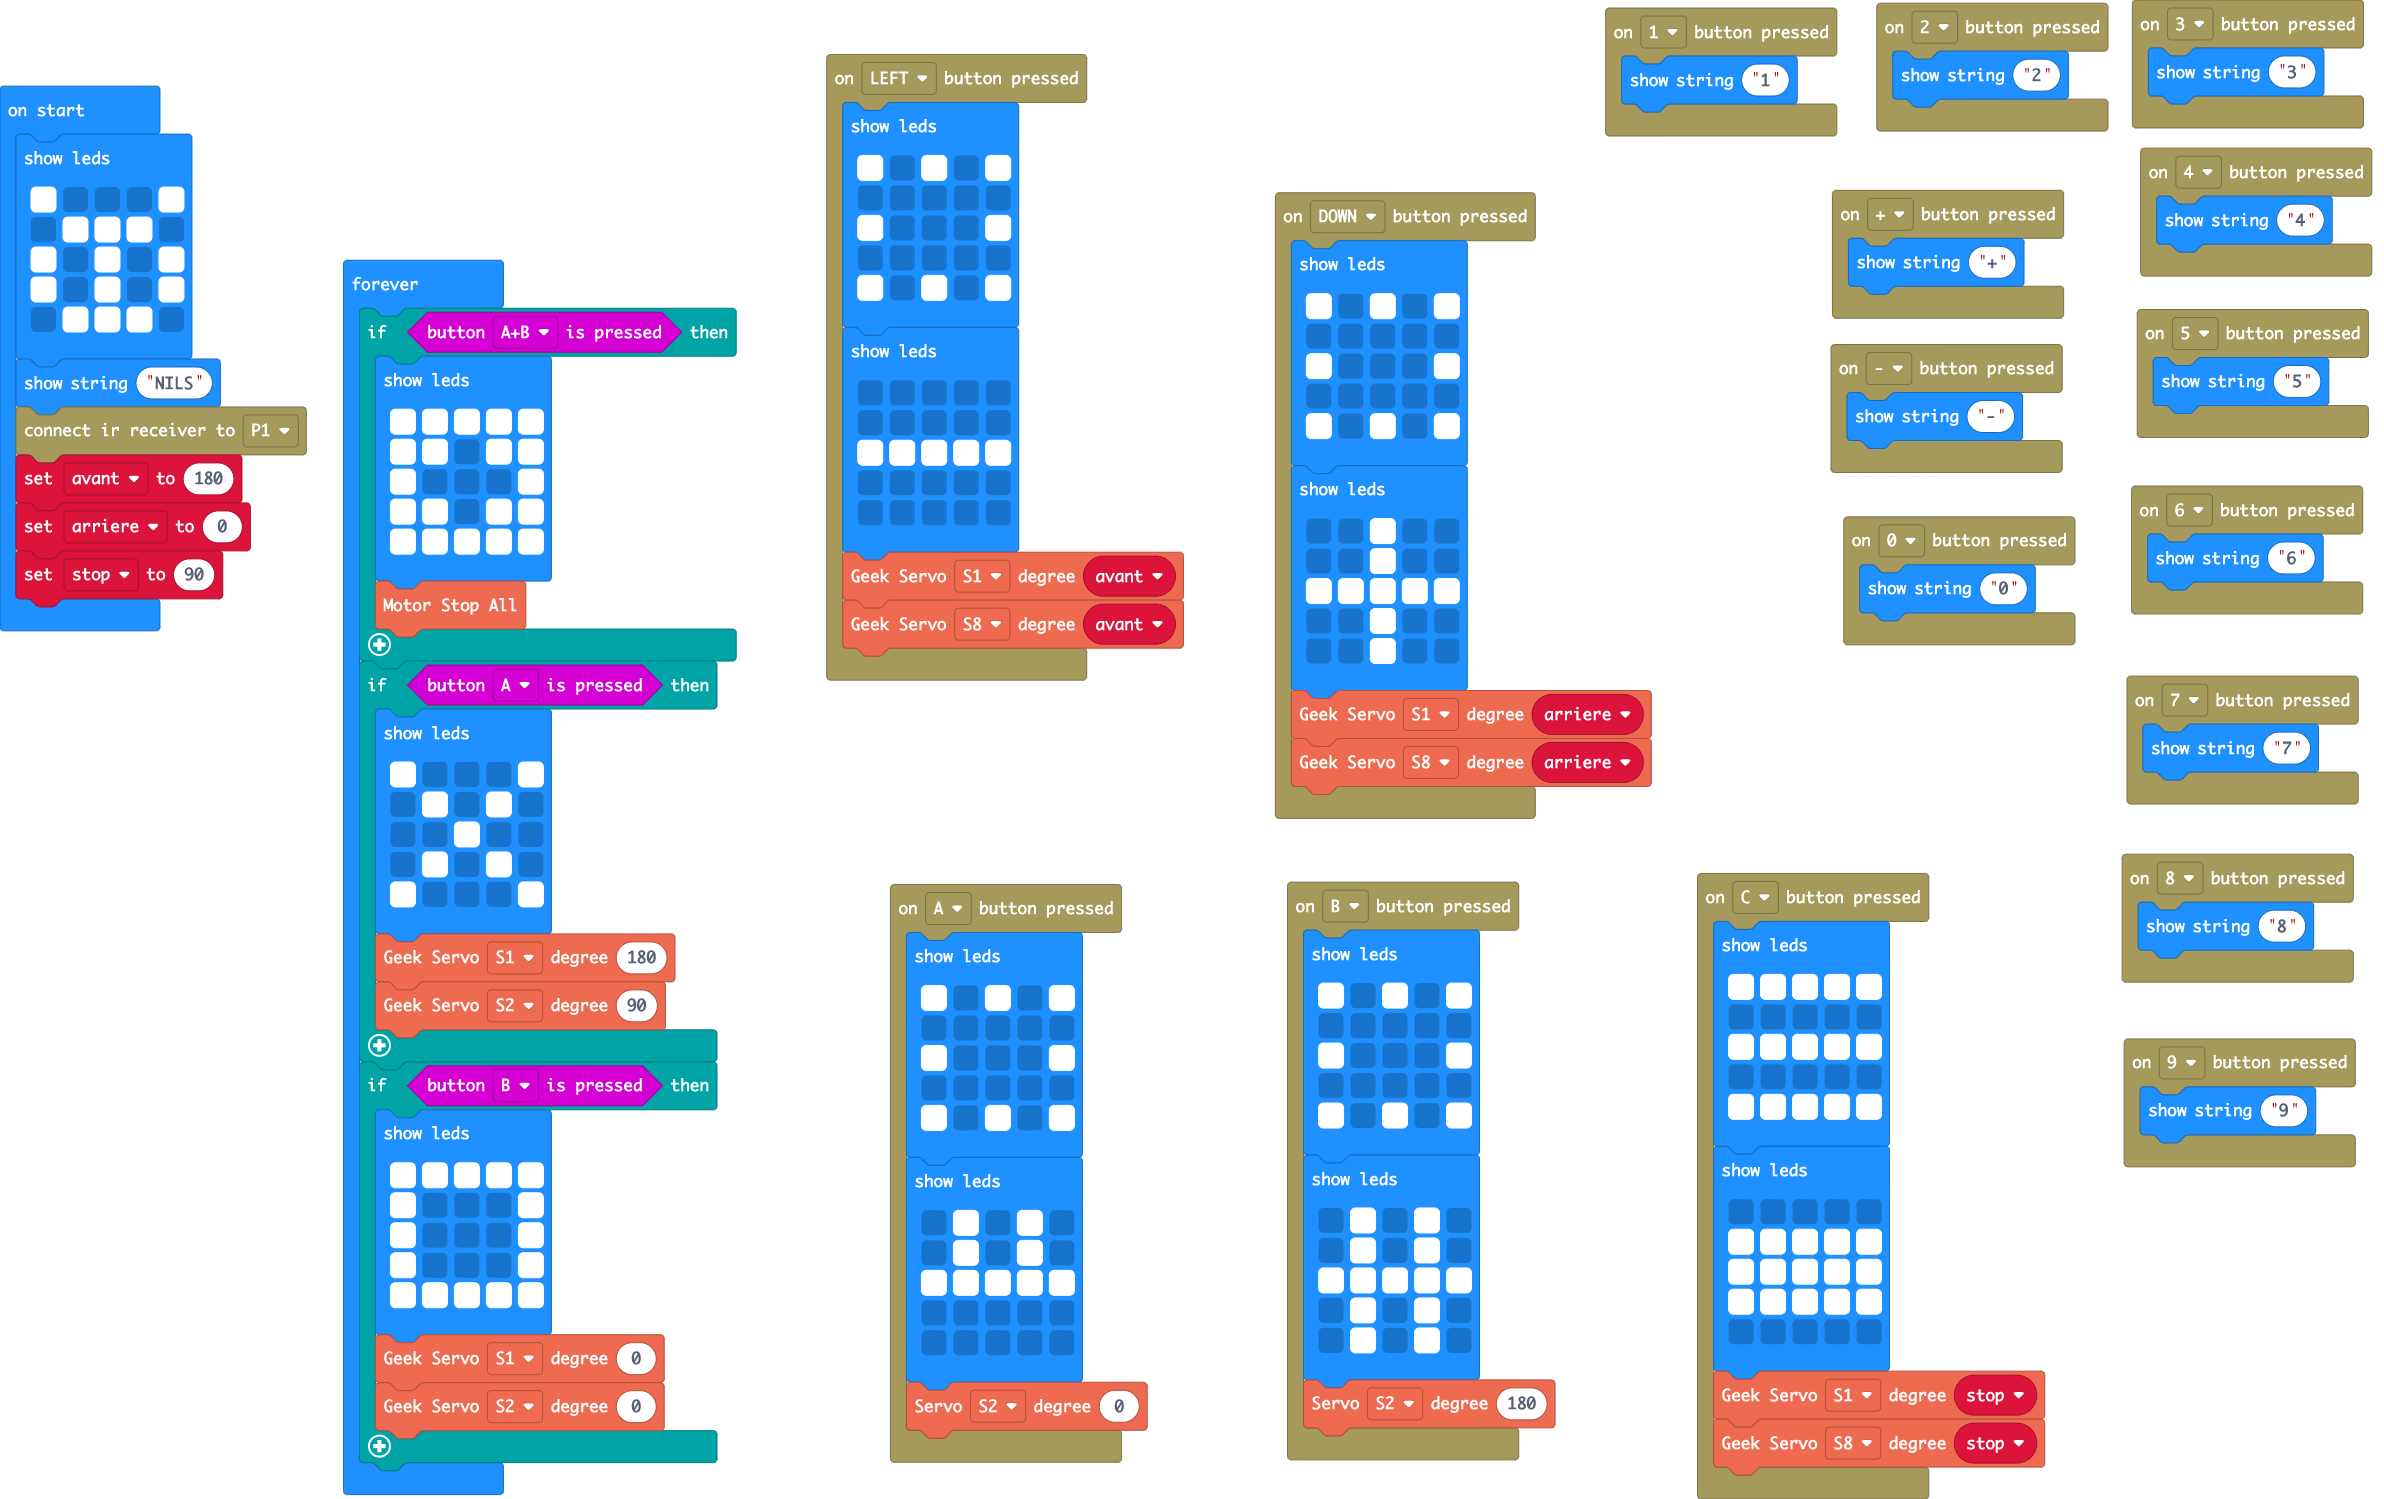
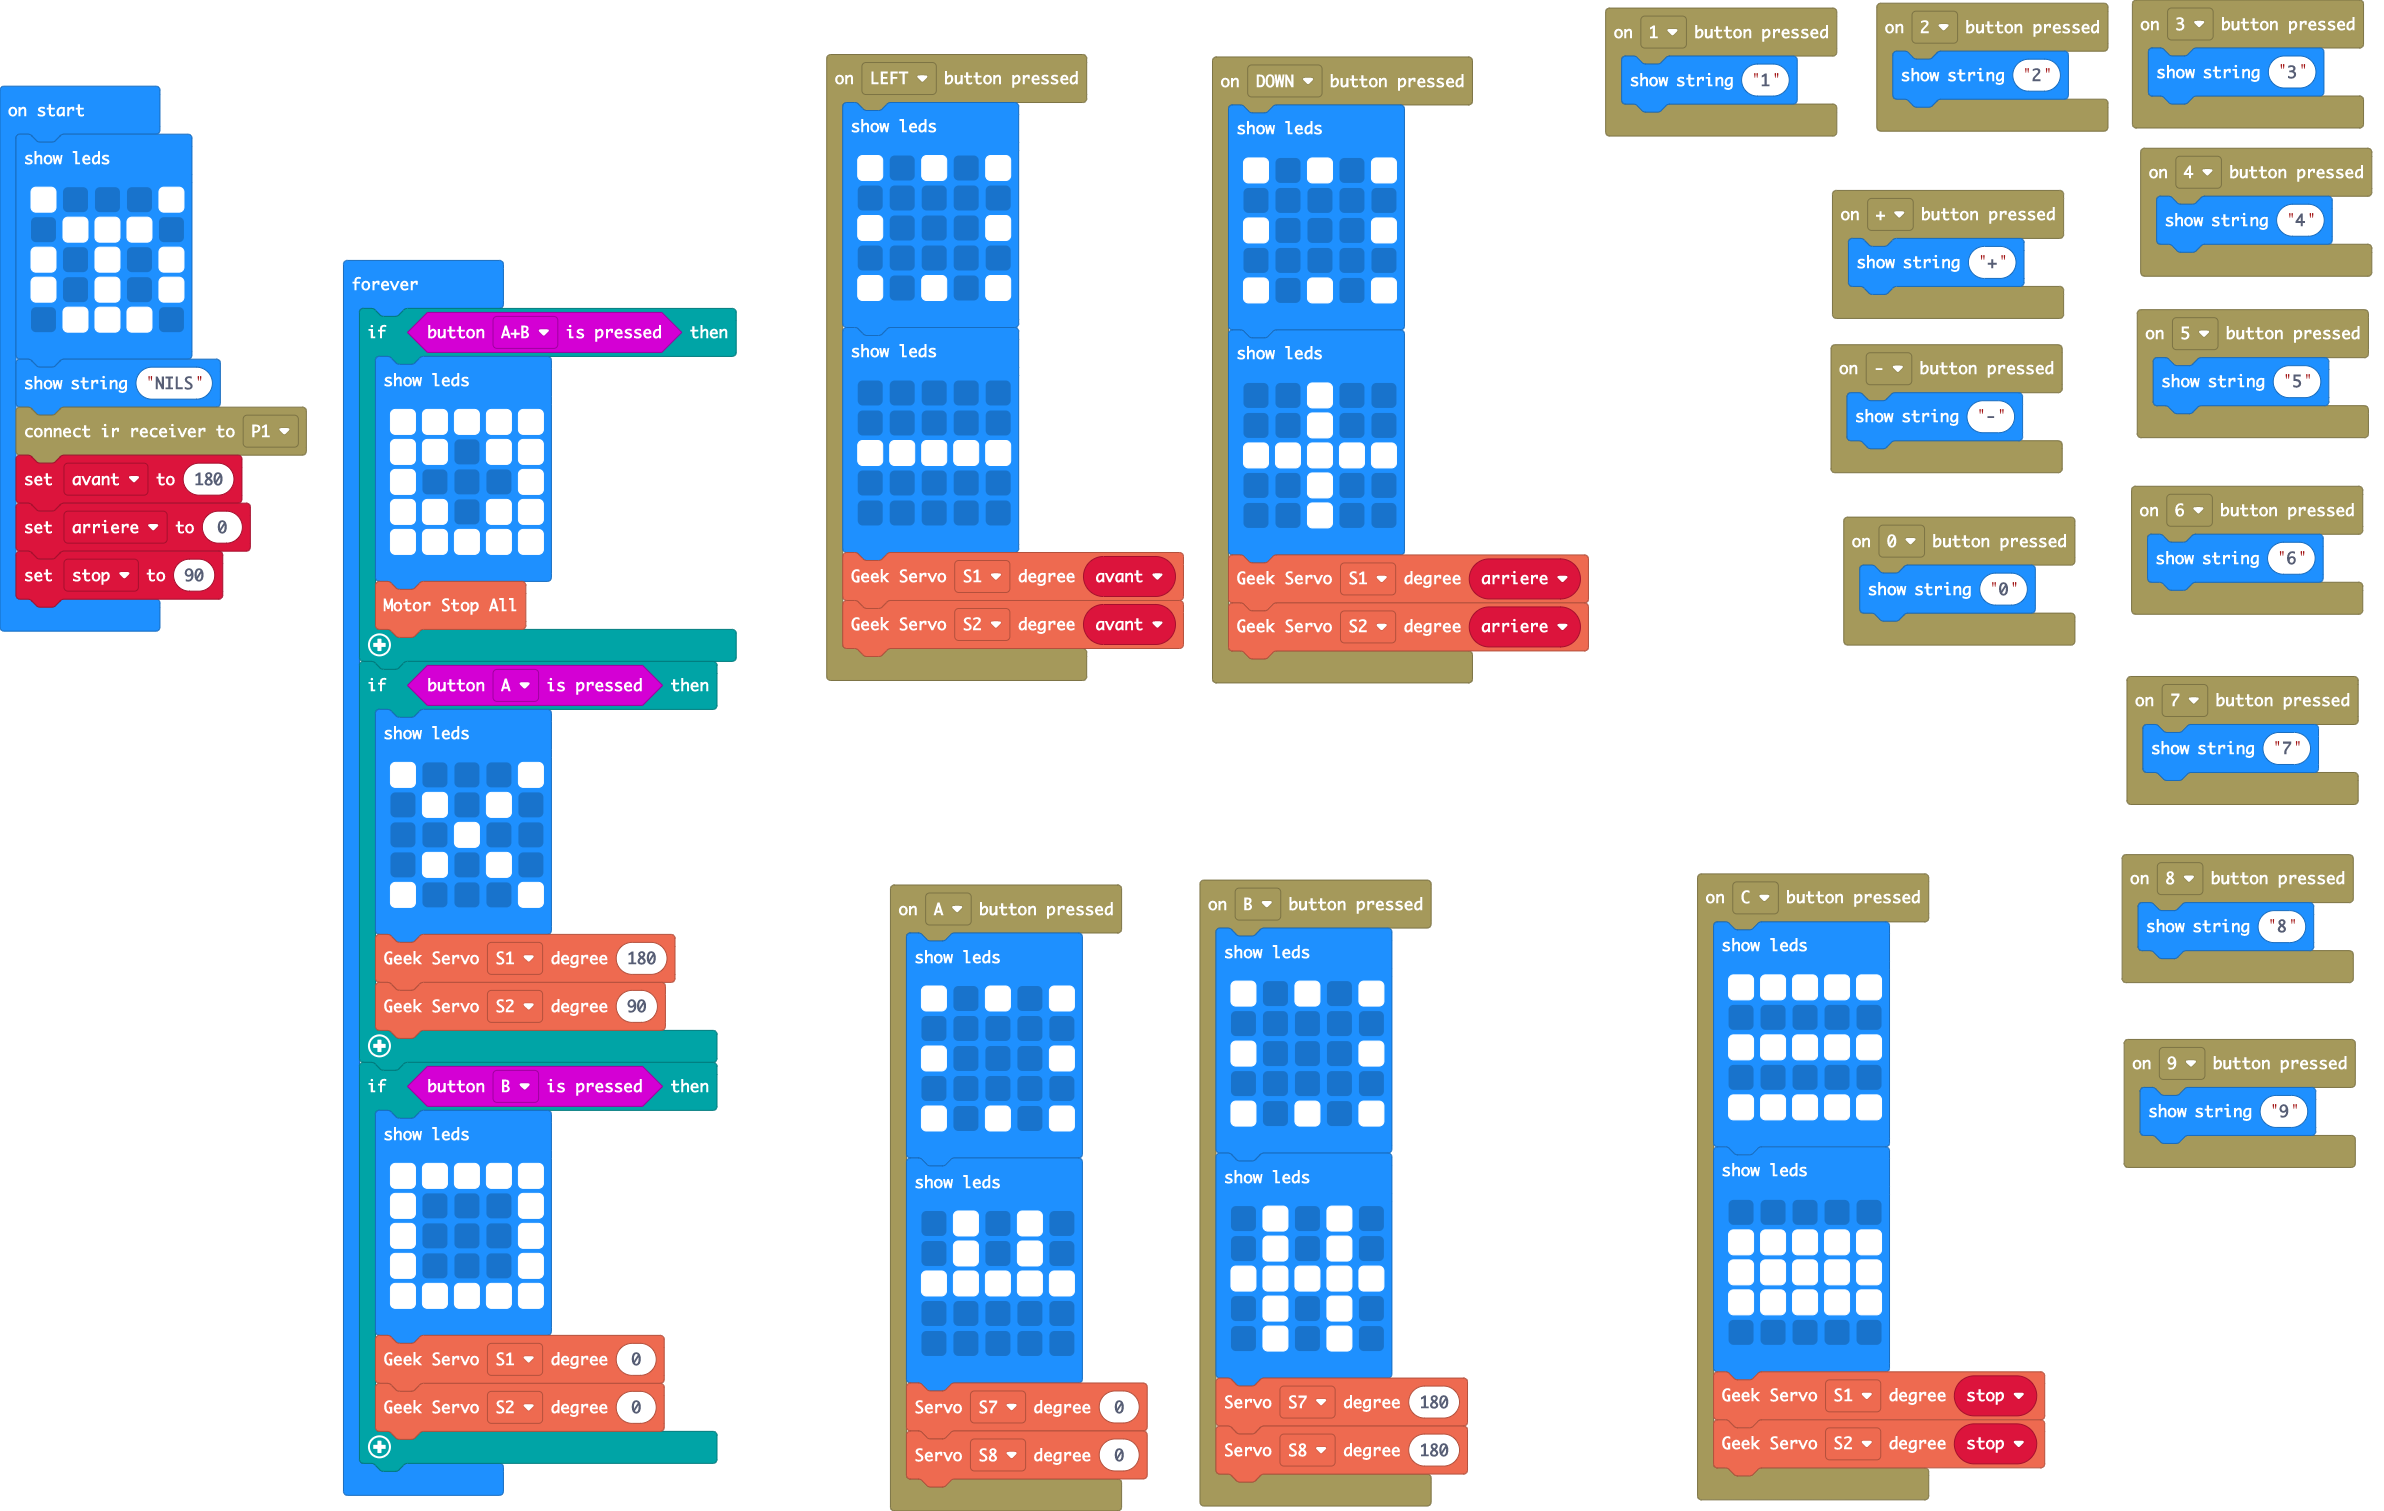
added 2 servos

diff --git a/main.ts b/main.ts
@@ -34,7 +34,8 @@ IrRemote.onPressEvent(RemoteButton.A, function () {
         . . . . .
         . . . . .
         `)
-    magicbit.Servo(magicbit.Servos.S2, 0)
+    magicbit.Servo(magicbit.Servos.S7, 0)
+    magicbit.Servo(magicbit.Servos.S8, 0)
 })
 IrRemote.onPressEvent(RemoteButton.NUM6, function () {
     basic.showString("6")
@@ -61,7 +62,7 @@ IrRemote.onPressEvent(RemoteButton.Left, function () {
         . . . . .
         `)
     magicbit.GeekServo(magicbit.Servos.S1, avant)
-    magicbit.GeekServo(magicbit.Servos.S8, avant)
+    magicbit.GeekServo(magicbit.Servos.S2, avant)
 })
 IrRemote.onPressEvent(RemoteButton.B, function () {
     basic.showLeds(`
@@ -78,7 +79,8 @@ IrRemote.onPressEvent(RemoteButton.B, function () {
         . # . # .
         . # . # .
         `)
-    magicbit.Servo(magicbit.Servos.S2, 180)
+    magicbit.Servo(magicbit.Servos.S7, 180)
+    magicbit.Servo(magicbit.Servos.S8, 180)
 })
 IrRemote.onPressEvent(RemoteButton.NUM4, function () {
     basic.showString("4")
@@ -99,7 +101,7 @@ IrRemote.onPressEvent(RemoteButton.Down, function () {
         . . # . .
         `)
     magicbit.GeekServo(magicbit.Servos.S1, arriere)
-    magicbit.GeekServo(magicbit.Servos.S8, arriere)
+    magicbit.GeekServo(magicbit.Servos.S2, arriere)
 })
 IrRemote.onPressEvent(RemoteButton.Add, function () {
     basic.showString("+")
@@ -120,7 +122,7 @@ IrRemote.onPressEvent(RemoteButton.C, function () {
         . . . . .
         `)
     magicbit.GeekServo(magicbit.Servos.S1, stop)
-    magicbit.GeekServo(magicbit.Servos.S8, stop)
+    magicbit.GeekServo(magicbit.Servos.S2, stop)
 })
 let stop = 0
 let arriere = 0
